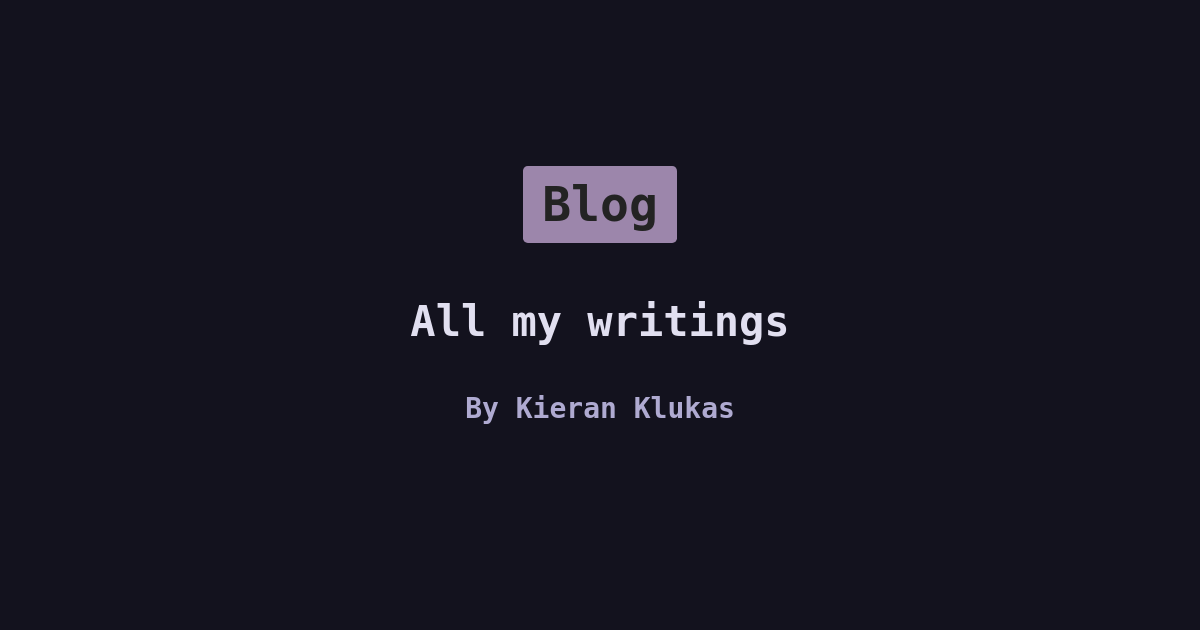
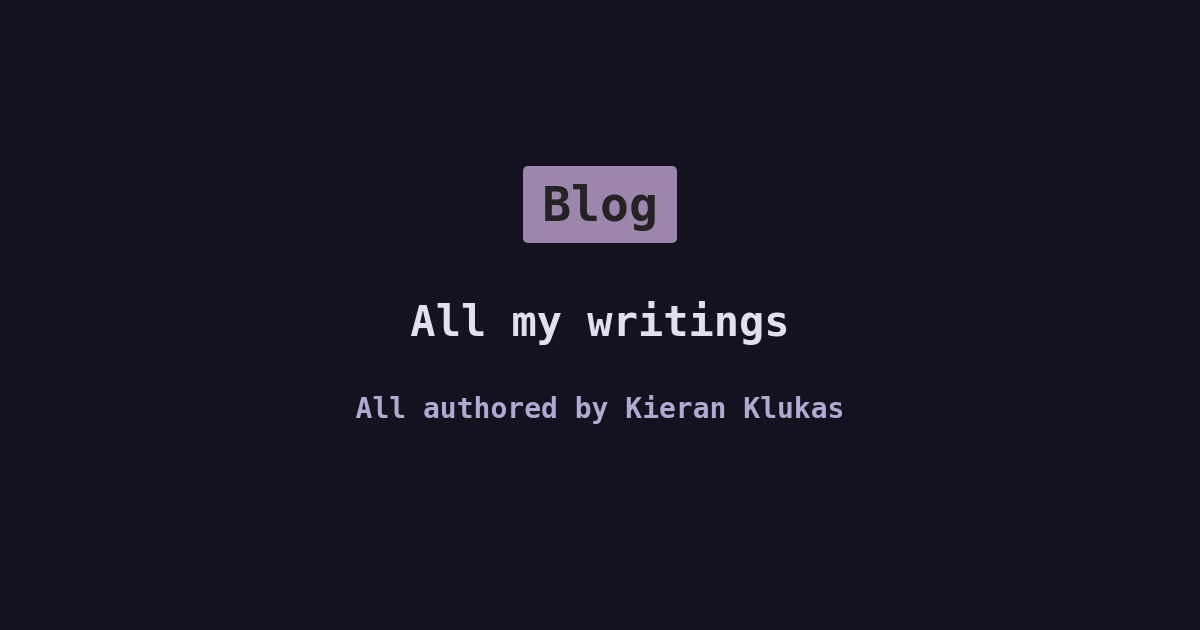
chore: display different by on the root blog page

Changed region(s): [[0.2775, 0.6333, 0.7092, 0.6635]]

diff --git a/tools/genOG.ts b/tools/genOG.ts
@@ -80,7 +80,11 @@ try {
 		switch (file.split("/")[0]) {
 			case "blog":
 				type = "Blog";
-				by = "<p>By Kieran Klukas</p>";
+				if (file.split("/")[1] !== "index.html") {
+					by = "<p>By Kieran Klukas</p>";
+				} else {
+					by = "<p>All authored by Kieran Klukas</p>";
+				}
 				break;
 			case "verify":
 			case "pfp":
